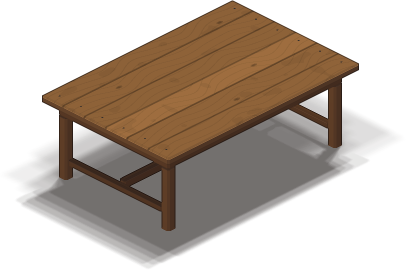
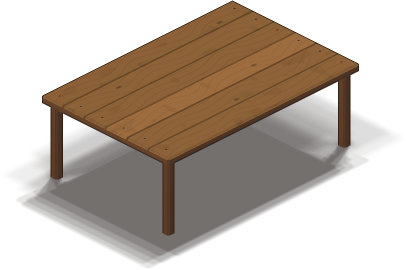
Mesa da cozinha sem travessas: só o tampo e as quatro pernas nas quinas
Sem a saia e as travessas embaixo do tampo, a cadeira encaixa embaixo da
mesa sem atravessar nada.

Claude-Session: https://claude.ai/code/session_01GewMJN2dFJ5tMTC2oy9kJJ

diff --git a/scripts/3d/codigo/pecas.py b/scripts/3d/codigo/pecas.py
@@ -139,18 +139,13 @@ def mesa(c, p):
             cor = np.where(pr[:, None], hexa('#3a332e')[None, :], cor)
         return cor
     lado = tabuas('#7d5330', larg=0.06, eixo='b', var=0.04, veio=False, junta_escura=0.85, seed=6)
-    c.caixa((0, Wm, 0, Dm, 0.72, 0.78), {'cima': tampo, '*': lado}, p, o)
-    # a saia e as pernas grossas
+    # o tampo grosso (7 cm) e só as quatro pernas nas quinas: nada embaixo, para a cadeira entrar livre por baixo
+    c.caixa((0, Wm, 0, Dm, 0.71, 0.78), {'cima': tampo, '*': lado}, p, o)
     pernas = liso('#7a4f2d')
-    ins = 0.1
-    c.caixa((ins, Wm - ins, ins, Dm - ins, 0.6, 0.72), {'*': liso('#6e4628')}, p, o)
-    for uu in (ins, Wm - ins - 0.1):
-        for vv in (ins, Dm - ins - 0.1):
-            c.caixa((uu, uu + 0.1, vv, vv + 0.1, 0, 0.6), {'*': pernas}, p, o)
-    # as travessas embaixo
-    c.caixa((ins + 0.1, Wm - ins - 0.1, Dm / 2 - 0.035, Dm / 2 + 0.035, 0.12, 0.2), {'*': liso('#6a4427')}, p, o)
-    for uu in (ins, Wm - ins - 0.1):
-        c.caixa((uu + 0.02, uu + 0.08, ins + 0.1, Dm - ins - 0.1, 0.14, 0.2), {'*': liso('#6a4427')}, p, o)
+    ins, lp = 0.05, 0.09
+    for uu in (ins, Wm - ins - lp):
+        for vv in (ins, Dm - ins - lp):
+            c.caixa((uu, uu + lp, vv, vv + lp, 0, 0.71), {'*': pernas}, p, o)
     return (0, Wm, 0, Dm)
 
 
